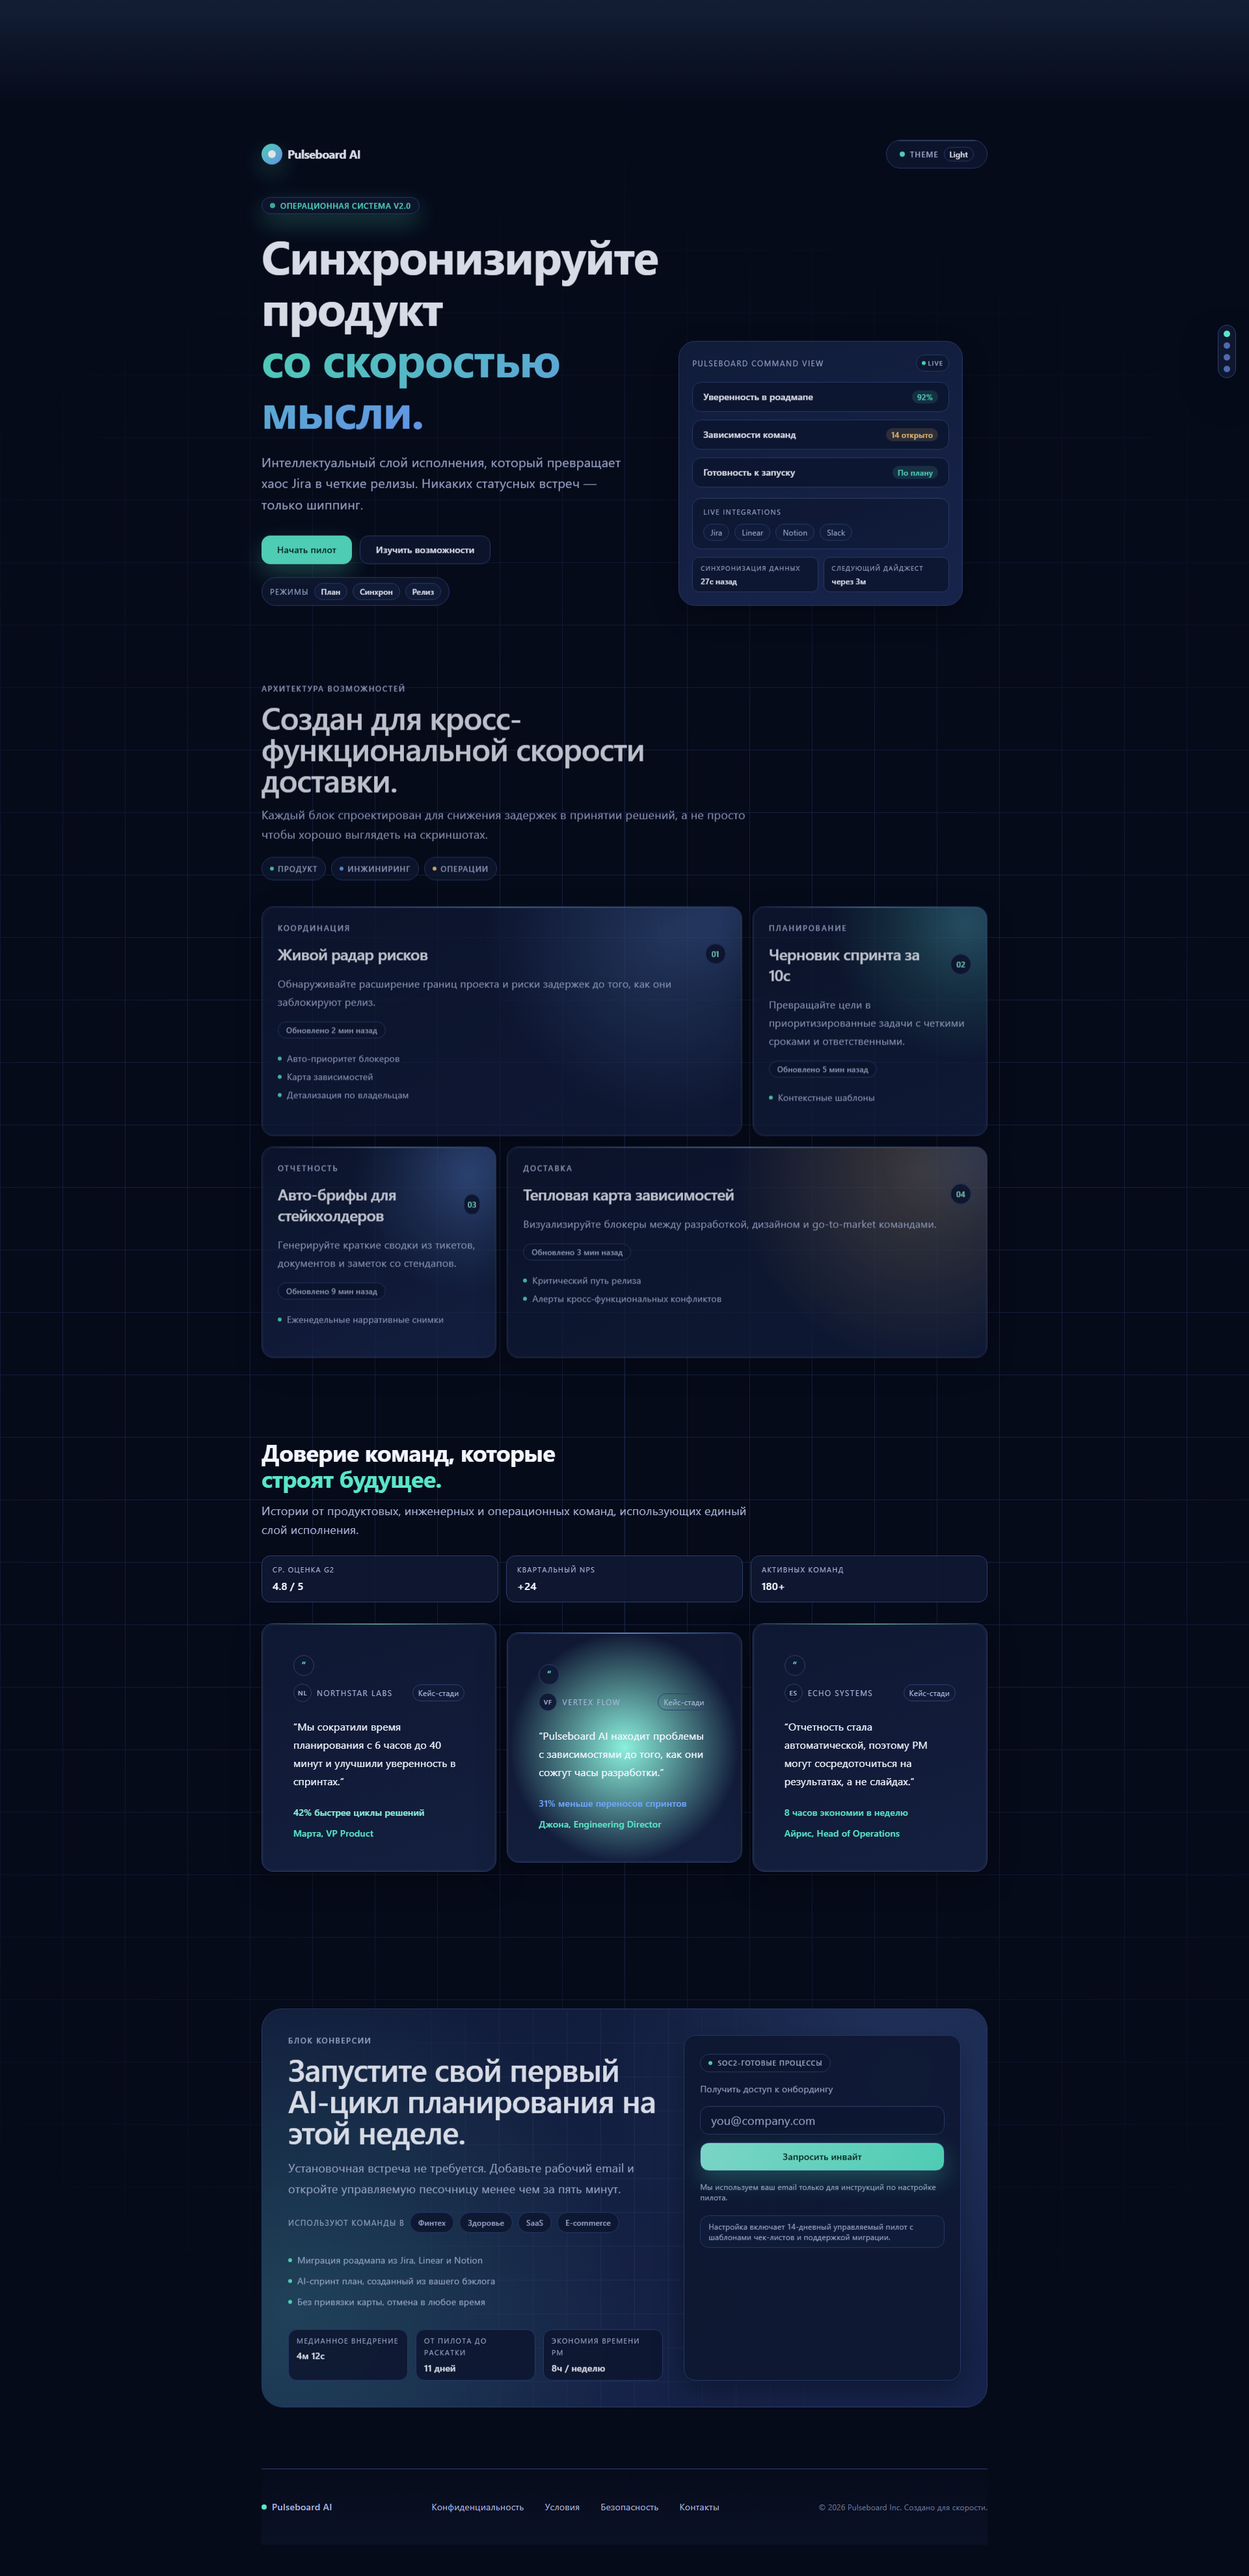
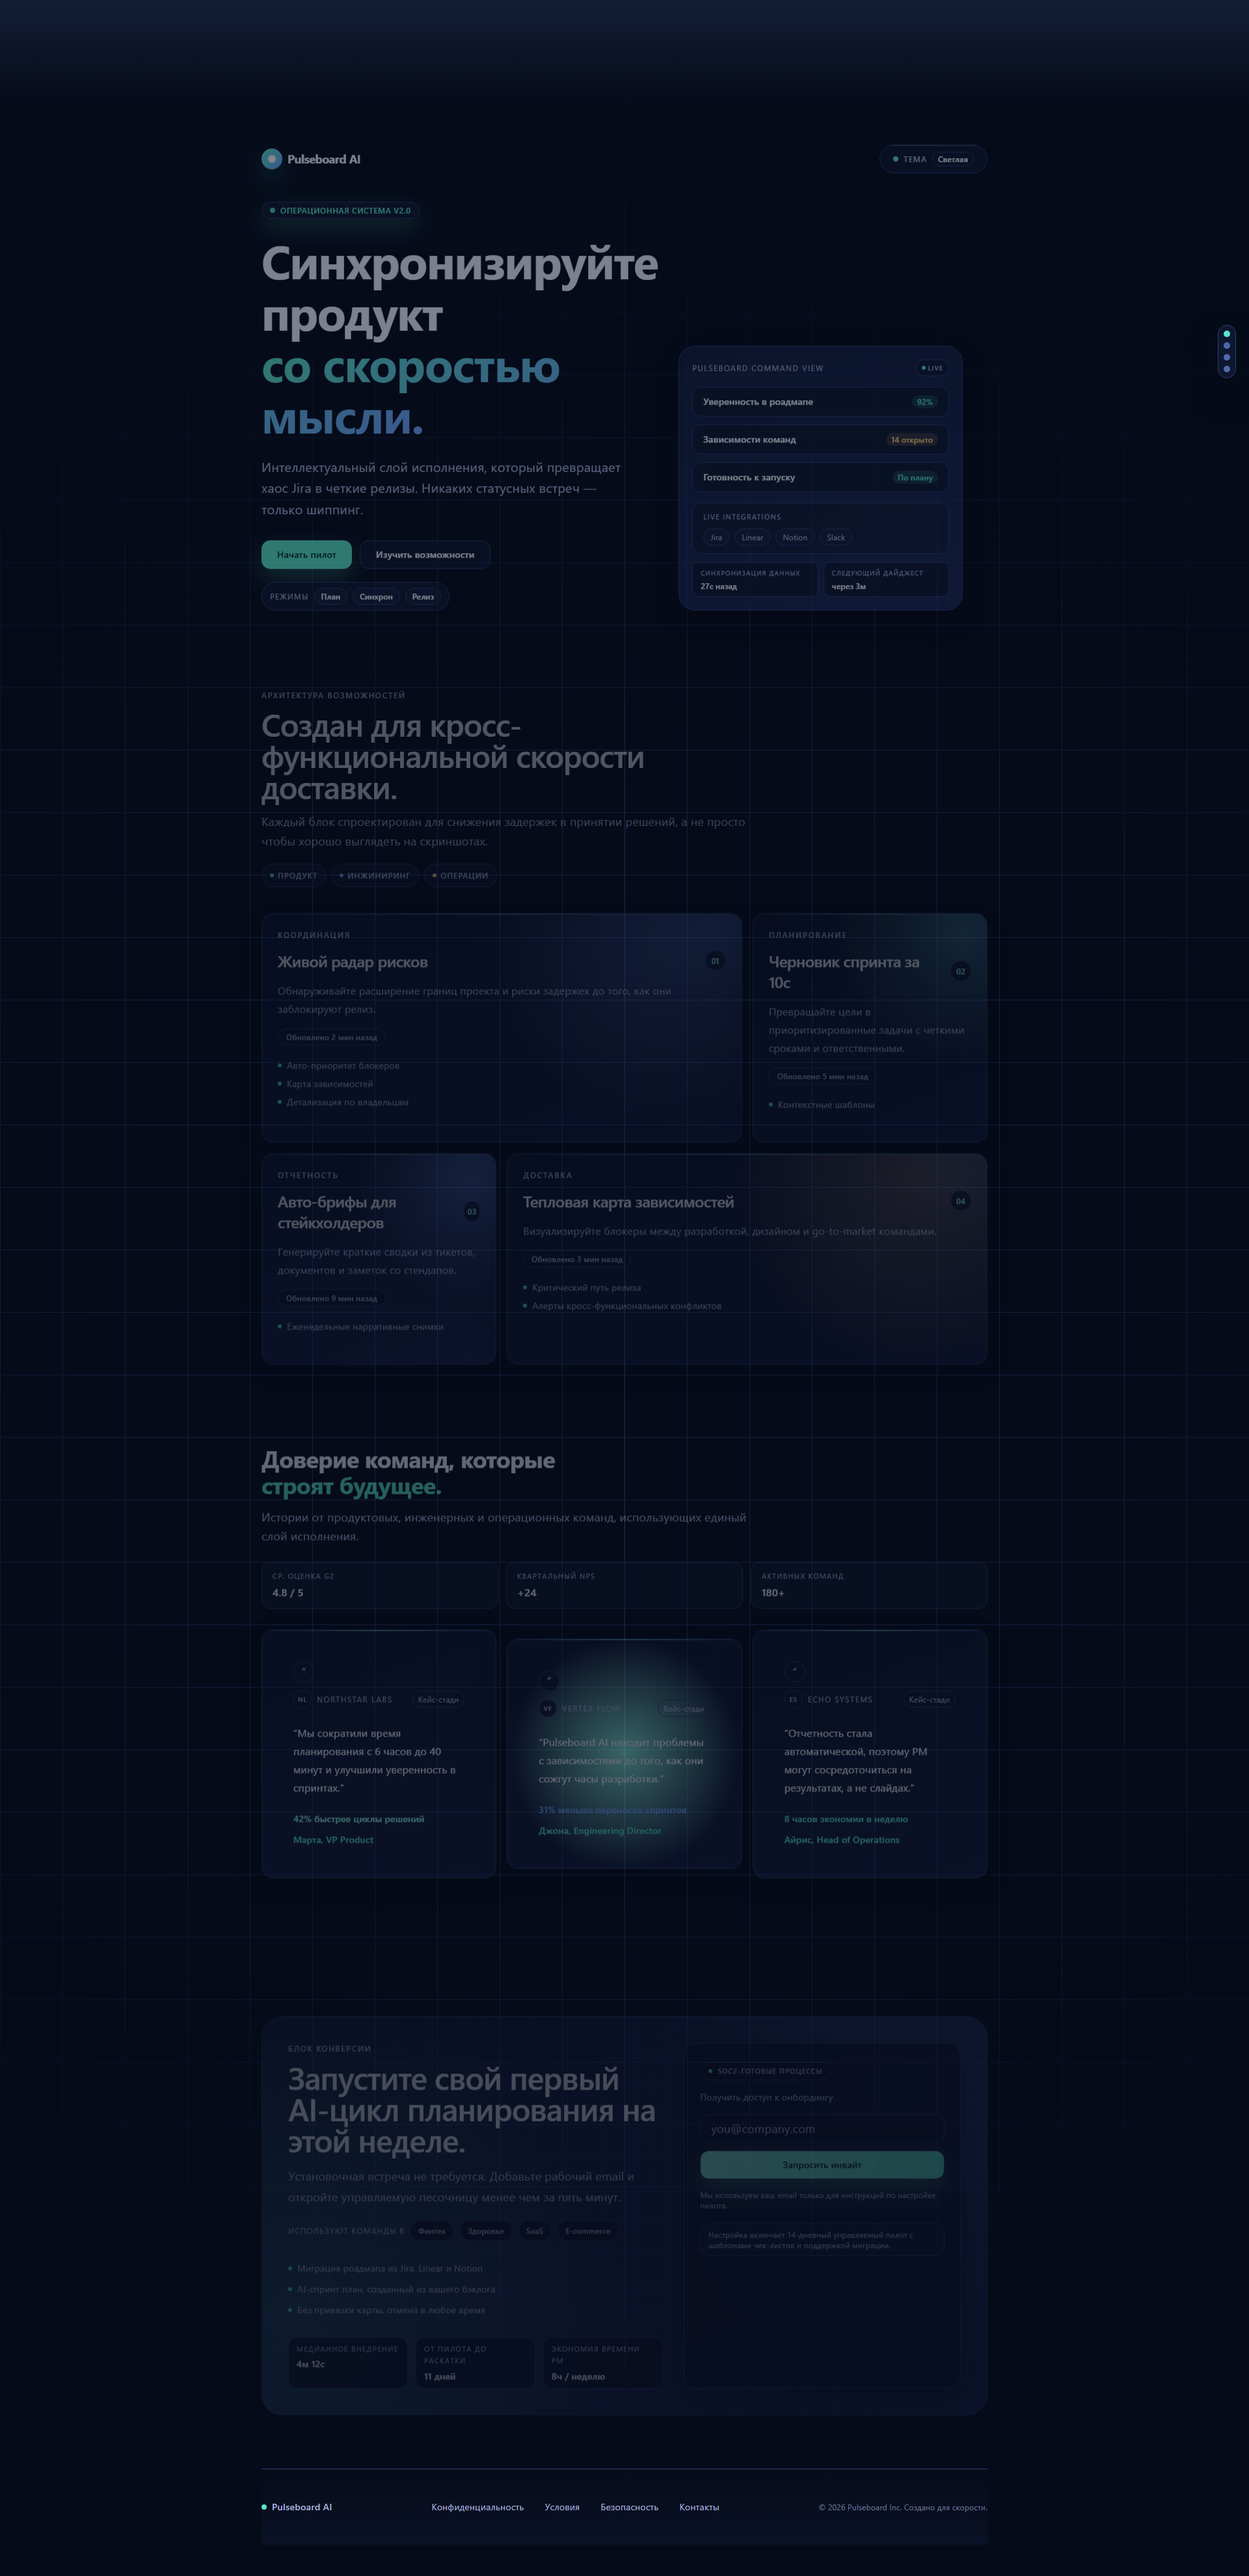
Localization: translate UI to Russian and polish visuals

diff --git a/app/page.tsx b/app/page.tsx
@@ -16,37 +16,37 @@ export default function Home() {
             <li>
               <a
                 href="#top"
-                aria-label="Go to hero"
+                aria-label="К началу"
                 className="block h-2.5 w-2.5 rounded-full bg-[var(--color-accent)]"
               >
-                <span className="sr-only">Hero</span>
+                <span className="sr-only">Главная</span>
               </a>
             </li>
             <li>
               <a
                 href="#features"
-                aria-label="Go to features"
+                aria-label="К возможностям"
                 className="block h-2.5 w-2.5 rounded-full bg-[var(--color-border-strong)]"
               >
-                <span className="sr-only">Features</span>
+                <span className="sr-only">Возможности</span>
               </a>
             </li>
             <li>
               <a
                 href="#testimonials"
-                aria-label="Go to testimonials"
+                aria-label="К отзывам"
                 className="block h-2.5 w-2.5 rounded-full bg-[var(--color-border-strong)]"
               >
-                <span className="sr-only">Testimonials</span>
+                <span className="sr-only">Отзывы</span>
               </a>
             </li>
             <li>
               <a
                 href="#cta"
-                aria-label="Go to call to action"
+                aria-label="К действию"
                 className="block h-2.5 w-2.5 rounded-full bg-[var(--color-border-strong)]"
               >
-                <span className="sr-only">Call to action</span>
+                <span className="sr-only">Призыв к действию</span>
               </a>
             </li>
           </ul>
@@ -56,10 +56,18 @@ export default function Home() {
       <div className="pointer-events-none absolute left-1/2 top-0 h-full w-px -translate-x-1/2 bg-[linear-gradient(to_bottom,transparent,var(--color-border),transparent)] opacity-40" />
       <div className="pointer-events-none absolute inset-x-0 top-0 h-40 bg-[linear-gradient(180deg,color-mix(in_oklab,var(--color-accent-2),transparent_88%),transparent)]" />
       <div id="top" className="relative mx-auto max-w-[1180px] px-5 py-8 md:px-8 md:py-12">
-        <Hero />
-        <Features />
-        <Testimonials />
-        <CTA />
+        <div className="reveal-in">
+          <Hero />
+        </div>
+        <div className="reveal-in reveal-delay-1">
+          <Features />
+        </div>
+        <div className="reveal-in reveal-delay-2">
+          <Testimonials />
+        </div>
+        <div className="reveal-in reveal-delay-2">
+          <CTA />
+        </div>
         <Footer />
       </div>
     </main>

diff --git a/components/landing/hero.tsx b/components/landing/hero.tsx
@@ -108,11 +108,11 @@ export function Hero() {
           <div className="rounded-[var(--radius-xl)] border border-[var(--color-border-strong)] bg-[linear-gradient(160deg,var(--color-surface-2),var(--color-surface-3))] p-5 shadow-[var(--shadow-card)]">
             <div className="flex items-center justify-between gap-3">
               <p className="text-xs uppercase tracking-[0.12em] text-[var(--color-text-muted)]">
-                Pulseboard Command View
+                Командный центр Pulseboard
               </p>
               <span className="inline-flex items-center gap-1 rounded-full border border-[var(--color-border)] bg-[color-mix(in_oklab,var(--color-surface),transparent_12%)] px-2 py-1 text-[10px] font-semibold uppercase tracking-[0.1em] text-[var(--color-text-muted)]">
                 <span className="h-1.5 w-1.5 rounded-full bg-[var(--color-accent)]" />
-                Live
+                Онлайн
               </span>
             </div>
             <div className="mt-4 space-y-3">
@@ -139,7 +139,7 @@ export function Hero() {
 
             <div className="mt-4 rounded-[var(--radius-md)] border border-[var(--color-border)] bg-[linear-gradient(160deg,color-mix(in_oklab,var(--color-surface),transparent_10%),color-mix(in_oklab,var(--color-surface-2),transparent_12%))] px-4 py-3 shadow-[inset_0_1px_0_rgb(255_255_255_/_0.06)]">
               <p className="text-[11px] uppercase tracking-[0.12em] text-[var(--color-text-muted)]">
-                Live integrations
+                Активные интеграции
               </p>
               <div className="mt-2 flex flex-wrap gap-2">
                 {integrations.map((integration) => (

diff --git a/components/landing/cta.tsx b/components/landing/cta.tsx
@@ -119,7 +119,7 @@ export function CTA() {
           <div className="rounded-[var(--radius-lg)] border border-[var(--color-border-strong)] bg-[color-mix(in_oklab,var(--color-surface),transparent_14%)] p-5 shadow-[var(--shadow-card)] md:p-6">
             <div className="mb-4 inline-flex items-center gap-2 rounded-full border border-[var(--color-border)] bg-[color-mix(in_oklab,var(--color-surface),transparent_10%)] px-3 py-1 text-[11px] font-semibold uppercase tracking-[0.08em] text-[var(--color-text-muted)]">
               <span className="h-1.5 w-1.5 rounded-full bg-[var(--color-accent)]" />
-              SOC2-готовые процессы
+              Процессы готовы к SOC2
             </div>
             <p className="mb-4 text-sm text-[var(--color-text-muted)]">
               Получить доступ к онбордингу

diff --git a/components/landing/theme-toggle.tsx b/components/landing/theme-toggle.tsx
@@ -28,7 +28,7 @@ export function ThemeToggle() {
       data-testid="theme-toggle"
       variant="outline"
       onClick={toggle}
-      aria-label="Toggle theme"
+      aria-label="Переключить тему"
       className="min-w-30 gap-2 rounded-full px-4"
     >
       <span
@@ -36,10 +36,10 @@ export function ThemeToggle() {
         className="h-2 w-2 rounded-full bg-[var(--color-accent)]"
       />
       <span className="text-xs uppercase tracking-[0.08em] text-[var(--color-text-muted)]">
-        Theme
+        Тема
       </span>
       <span className="rounded-full border border-[var(--color-border)] px-2 py-0.5 text-xs font-semibold text-[var(--color-text)]">
-        {theme === "dark" ? "Light" : "Dark"}
+        {theme === "dark" ? "Светлая" : "Тёмная"}
       </span>
     </Button>
   );

diff --git a/app/layout.tsx b/app/layout.tsx
@@ -4,12 +4,12 @@ import { Sora, Syne } from "next/font/google";
 import "./globals.css";
 
 const sora = Sora({
-  variable: "--font-manrope",
+  variable: "--font-sora",
   subsets: ["latin"],
 });
 
 const syne = Syne({
-  variable: "--font-space-grotesk",
+  variable: "--font-syne",
   subsets: ["latin"],
 });
 

diff --git a/app/globals.css b/app/globals.css
@@ -4,8 +4,8 @@
 :root,
 html[data-theme="dark"] {
   color-scheme: dark;
-  --font-body: var(--font-manrope);
-  --font-heading: var(--font-space-grotesk);
+  --font-body: var(--font-sora);
+  --font-heading: var(--font-syne);
 
   --color-bg: #060b1a;
   --color-bg-soft: #0b1226;
